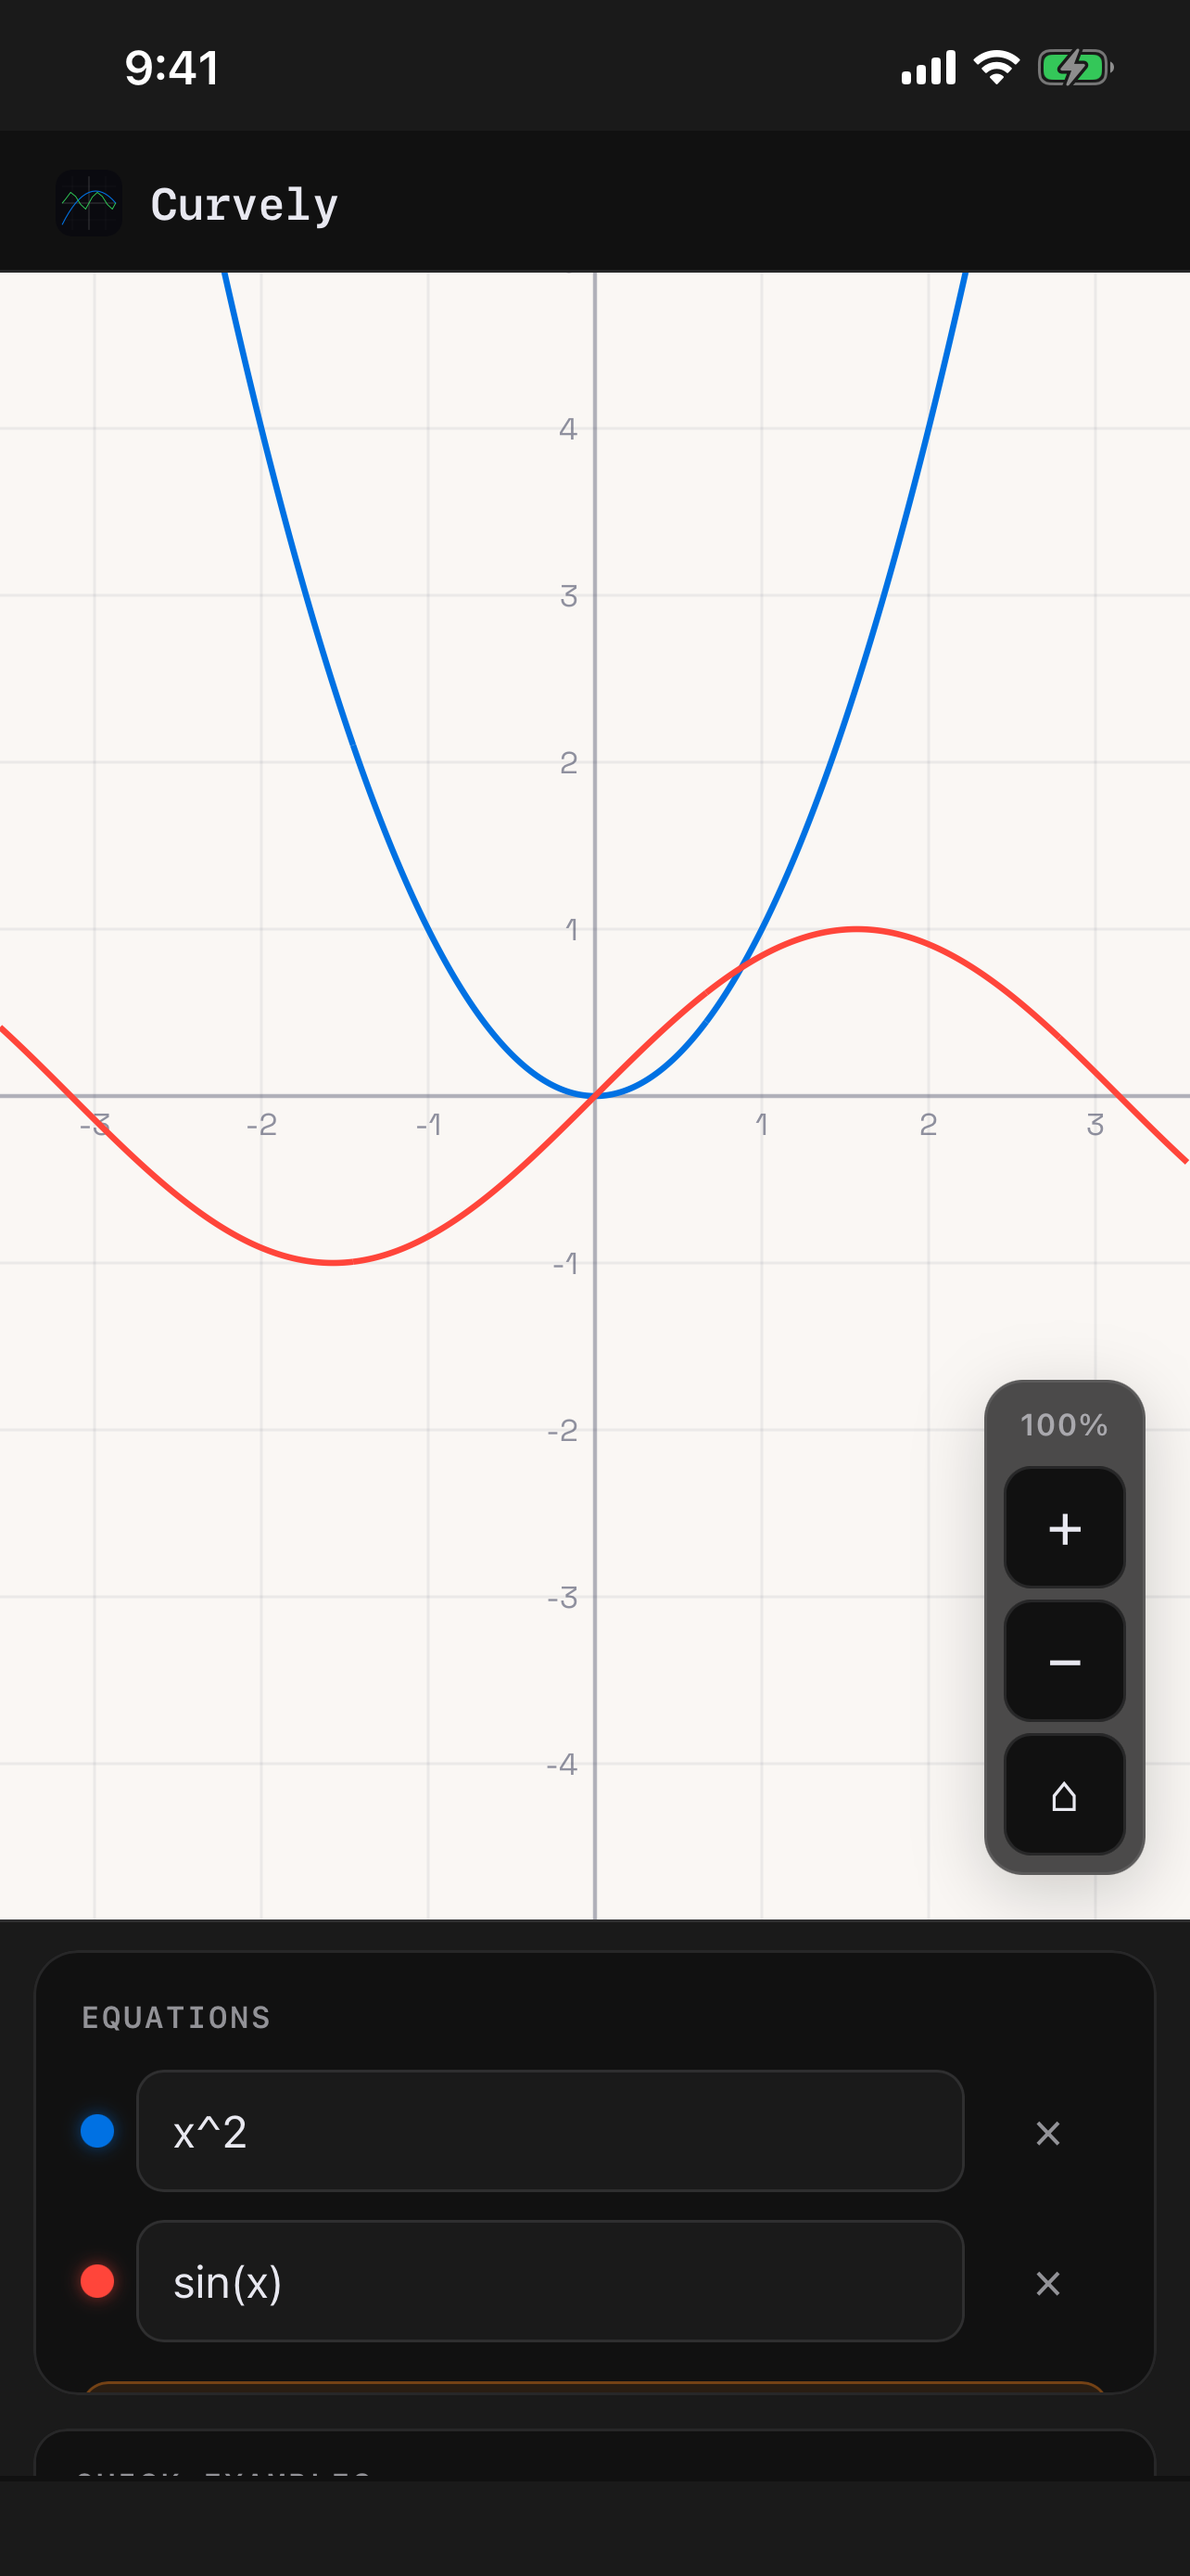
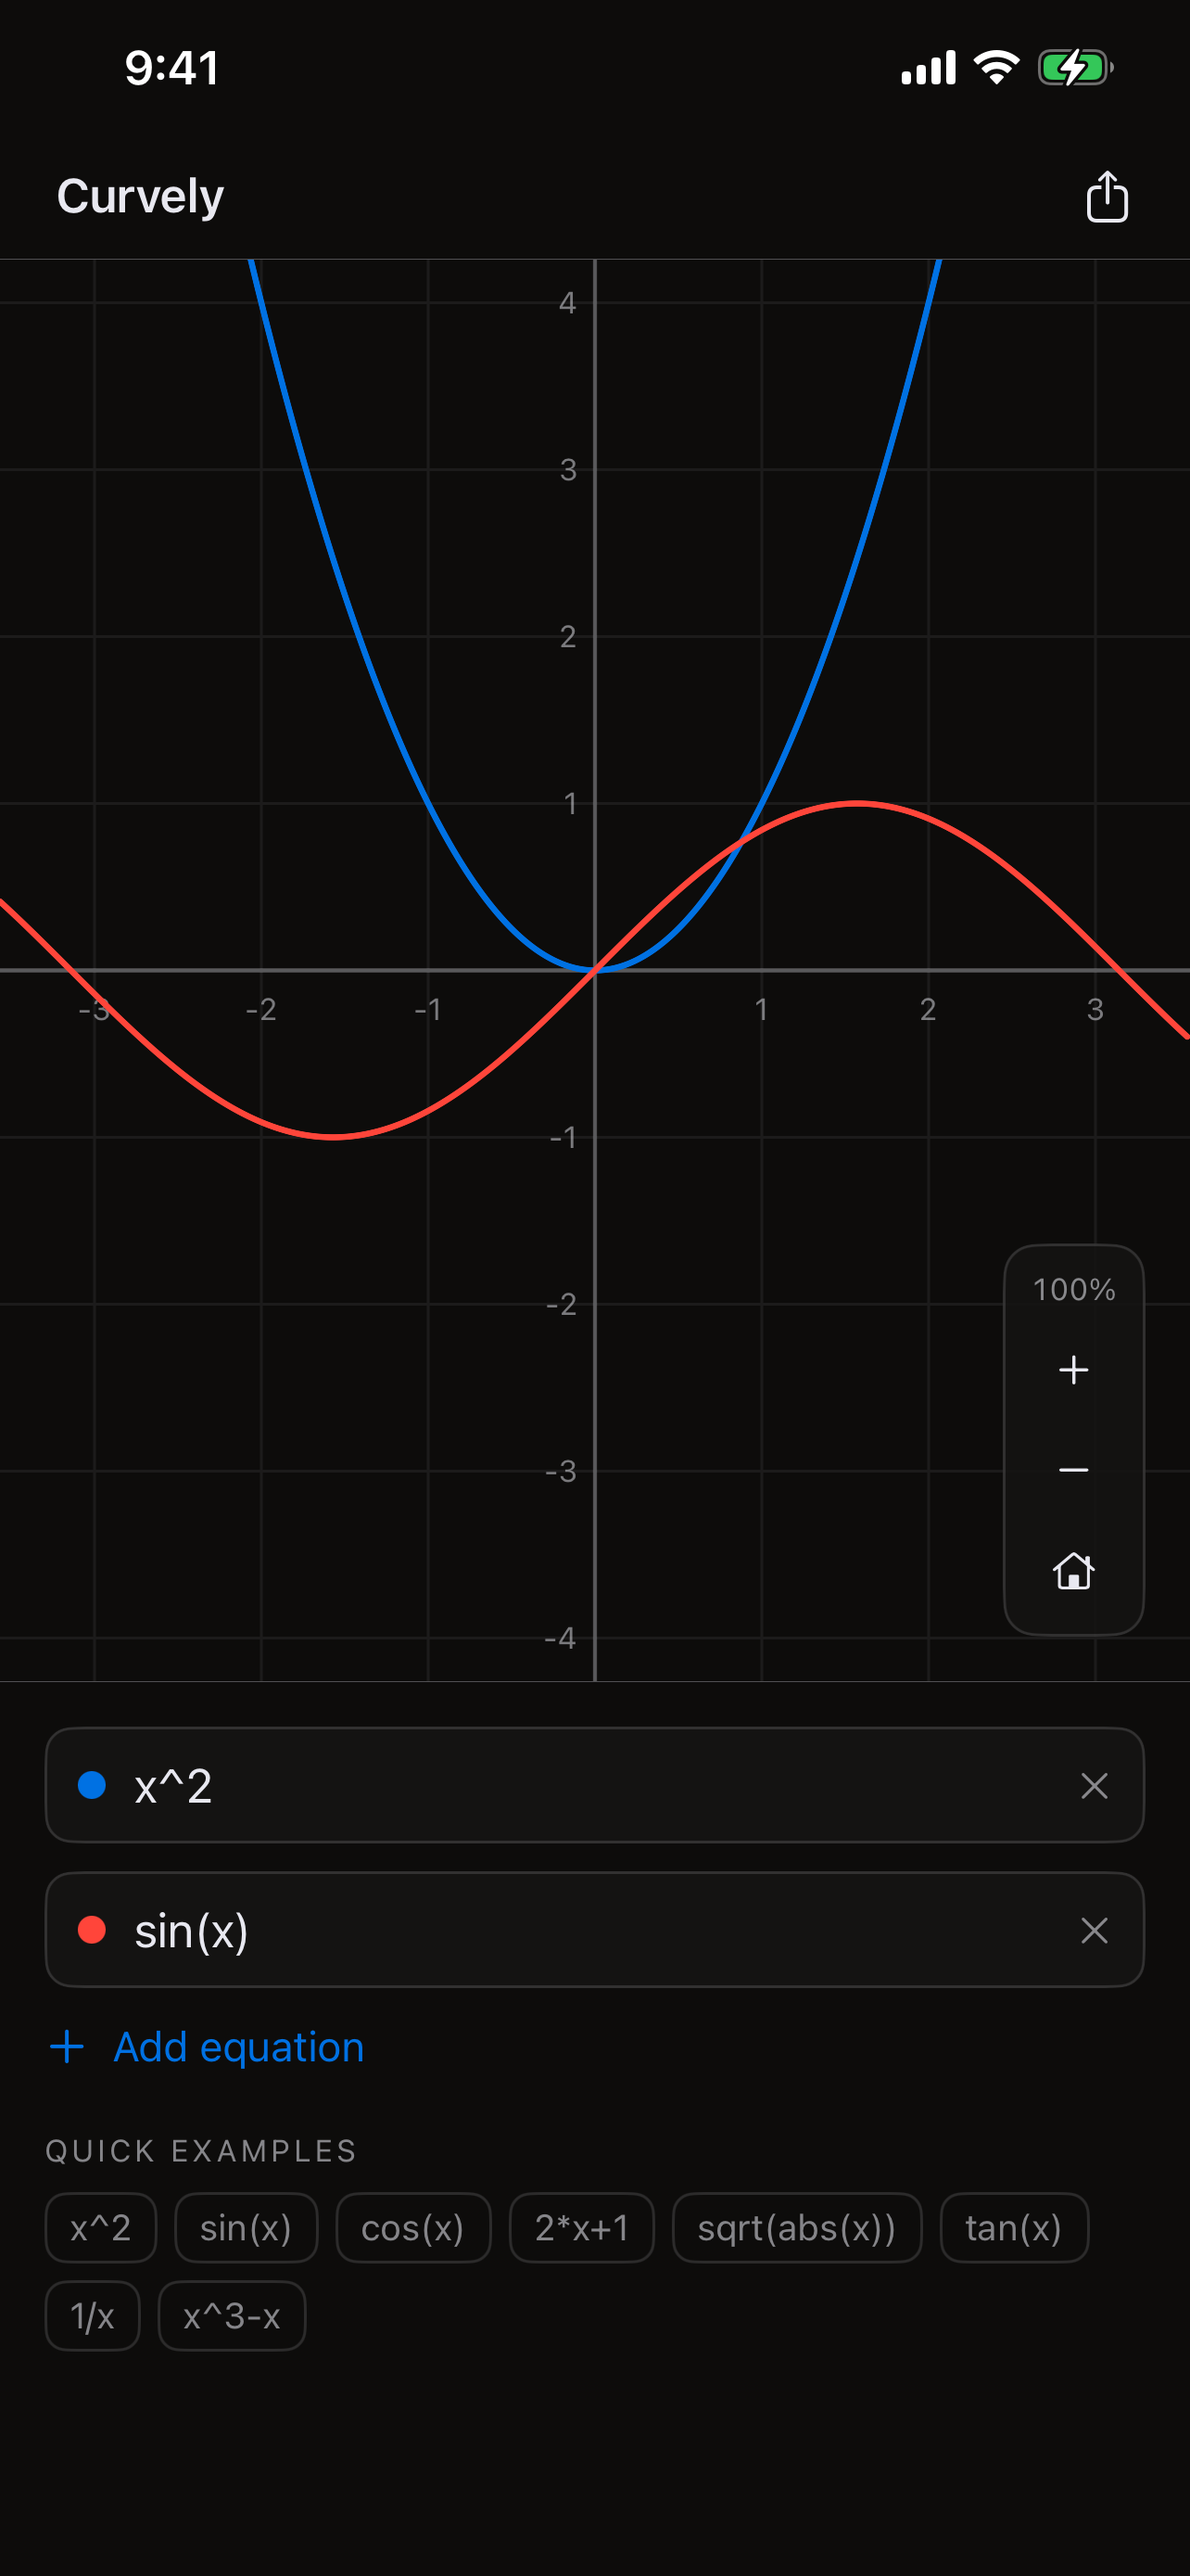
Curvely: fresh App Store screenshots, drop floating share overlay
Store shots still showed the old light-theme graph with the title-bar icon.
Recaptured iPhone 6.5" and iPad 13" from the current dark UI. Removed the
app-link share bubble that sat on top of the quick examples.

Claude-Session: https://claude.ai/code/session_013Mat5CDShK3bvWQz96zaCt

diff --git a/ios/App/GrapherApp.swift b/ios/App/GrapherApp.swift
@@ -5,39 +5,10 @@ struct CurvelyApp: App {
     var body: some Scene {
         WindowGroup {
             ContentView()
-            .shareApp("https://curvely.heyitsmejosh.com")
         }
         // ponytail: 900x450 was the AppKit default, too cramped to graph in.
         #if os(macOS)
         .defaultSize(width: 1280, height: 800)
         #endif
     }
-}
-
-// MARK: - Share
-
-// ponytail: one overlay rather than a per-screen toolbar button — these root views share no
-// navigation container to hang a .toolbar on. Move it into a toolbar per screen if this ever
-// covers something that matters.
-private struct AppShareOverlay: ViewModifier {
-    let link: String
-
-    func body(content: Content) -> some View {
-        content.overlay(alignment: .bottomTrailing) {
-            if let url = URL(string: link) {
-                ShareLink(item: url) {
-                    Image(systemName: "square.and.arrow.up")
-                        .font(.system(size: 15, weight: .medium))
-                        .padding(10)
-                        .background(.regularMaterial, in: Circle())
-                }
-                .buttonStyle(.plain)
-                .padding(16)
-            }
-        }
-    }
-}
-
-private extension View {
-    func shareApp(_ link: String) -> some View { modifier(AppShareOverlay(link: link)) }
 }
